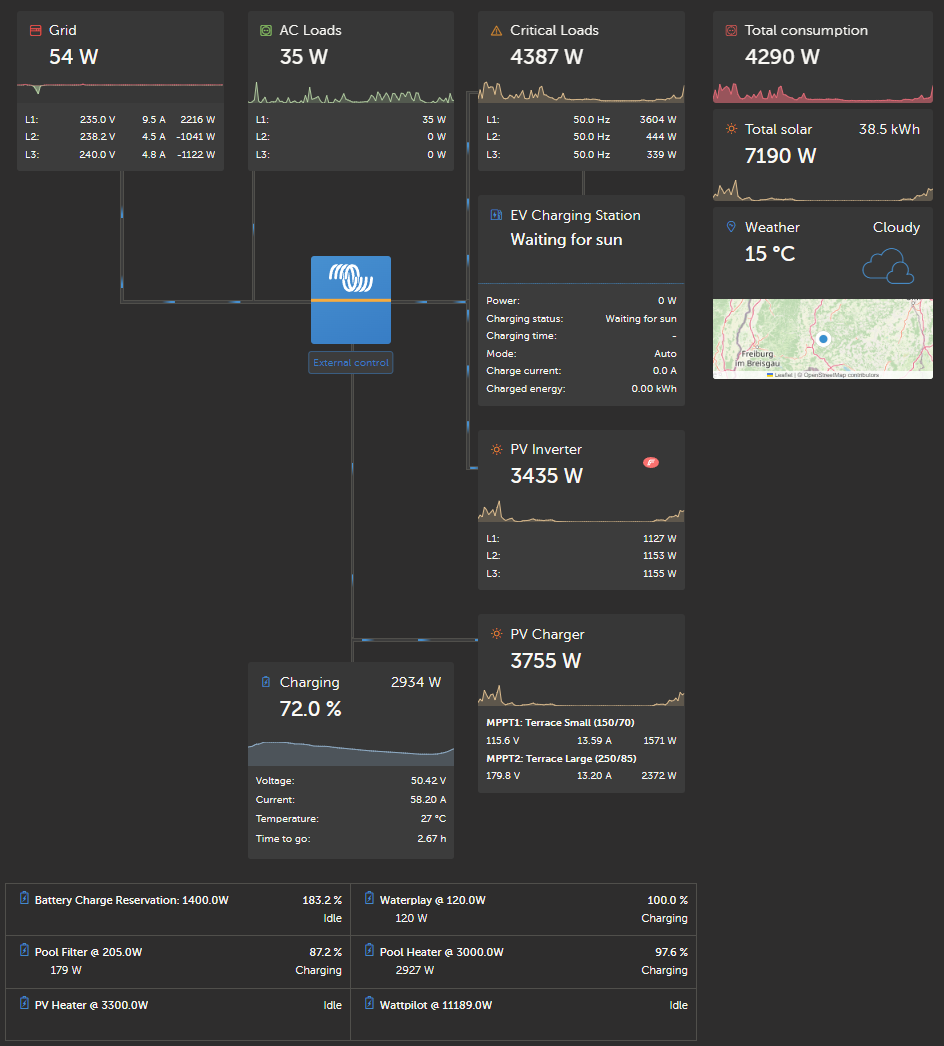
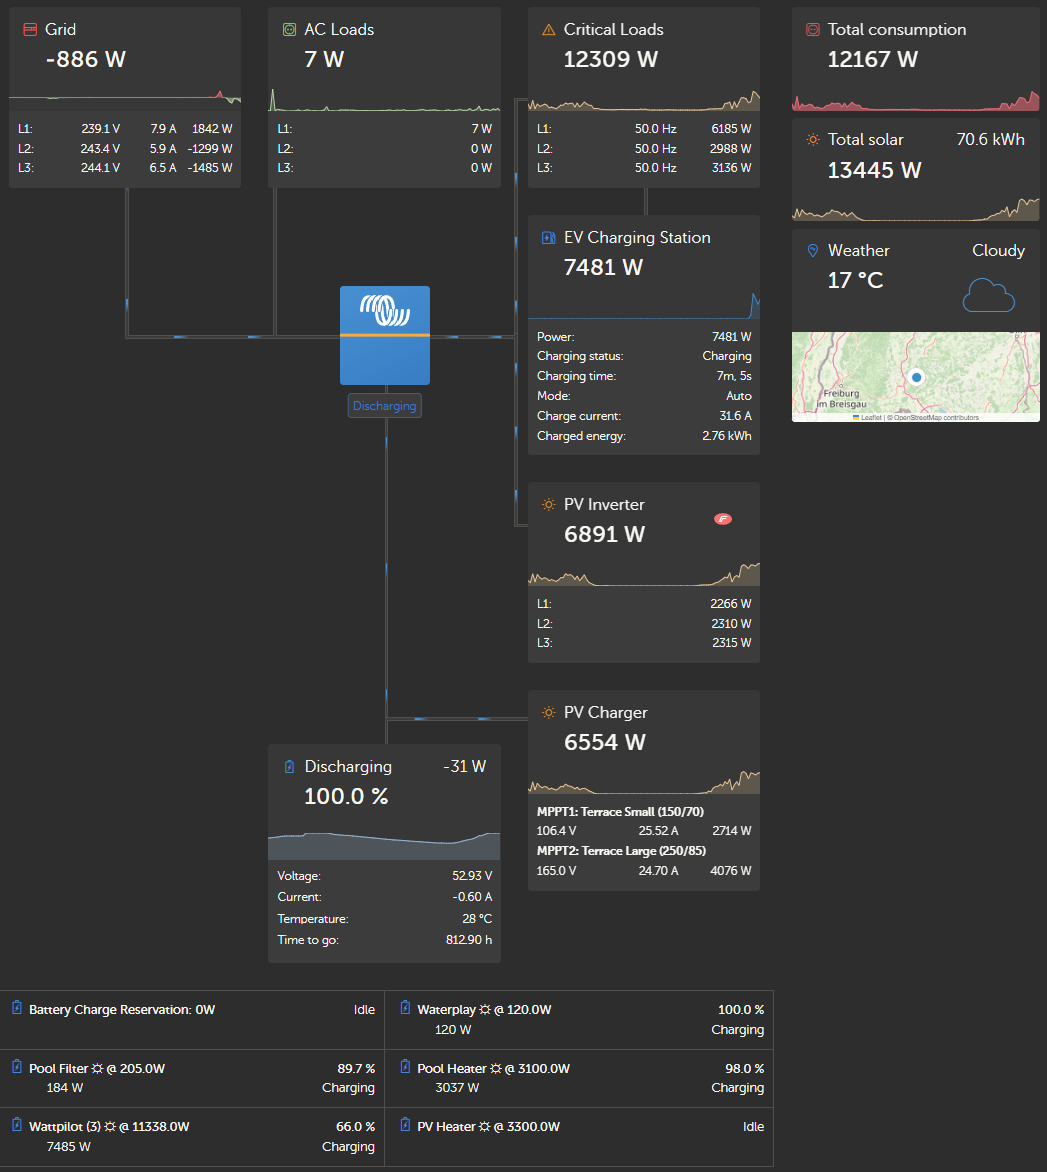
no message

diff --git a/FroniusWattpilot.py b/FroniusWattpilot.py
@@ -83,6 +83,8 @@ class FroniusWattpilot:
         self.dbusService.add_path('/Ac/L3/PowerFactor', 0)
         self.dbusService.add_path('/ChargingTime', self.chargingTime)
         self.dbusService.add_path('/Ac/Power', 0)
+        self.dbusService.add_path('/Ac/PowerPercent', 0)
+        self.dbusService.add_path('/Ac/PowerMax', 0)
         self.dbusService.add_path('/Current', 0)
         self.dbusService.add_path('/AutoStart', self.autostart, writeable=False)
         self.dbusService.add_path('/SetCurrent', 0, writeable=True, onchangecallback=self._froniusHandleChangedValue)
@@ -351,6 +353,8 @@ class FroniusWattpilot:
         self.Publish("/Ac/L2/PowerFactor", self.wattpilot.powerFactor2  if (self.wattpilot.powerFactor2 is not None and self.wattpilot.power>0) else 0)
         self.Publish("/Ac/L3/PowerFactor", self.wattpilot.powerFactor3  if (self.wattpilot.powerFactor3 is not None and self.wattpilot.power>0) else 0)
         self.Publish("/Ac/Power", self.wattpilot.power * 1000 if (self.wattpilot.power is not None) else 0)
+        self.Publish("/Ac/PowerPercent", (self.wattpilot.power * 1000) / (3 * self.wattpilot.ampLimit * self.wattpilot.voltage1) if (self.wattpilot.power is not None) else 0)
+        self.Publish("/Ac/PowerMax", (3 * self.wattpilot.ampLimit * self.wattpilot.voltage1))
         self.Publish("/Current", (self.wattpilot.amps1 + self.wattpilot.amps2 + self.wattpilot.amps3) if (self.wattpilot.amp is not None and self.wattpilot.power>0) else 0)
         self.Publish("/Mode", self.mode)
 
